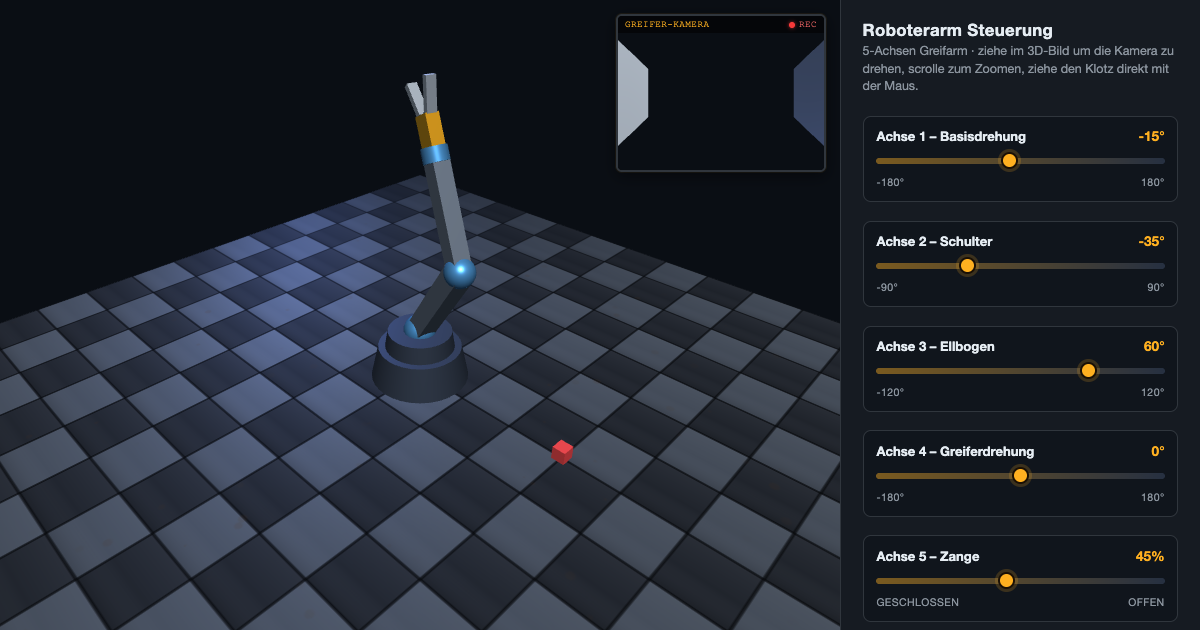
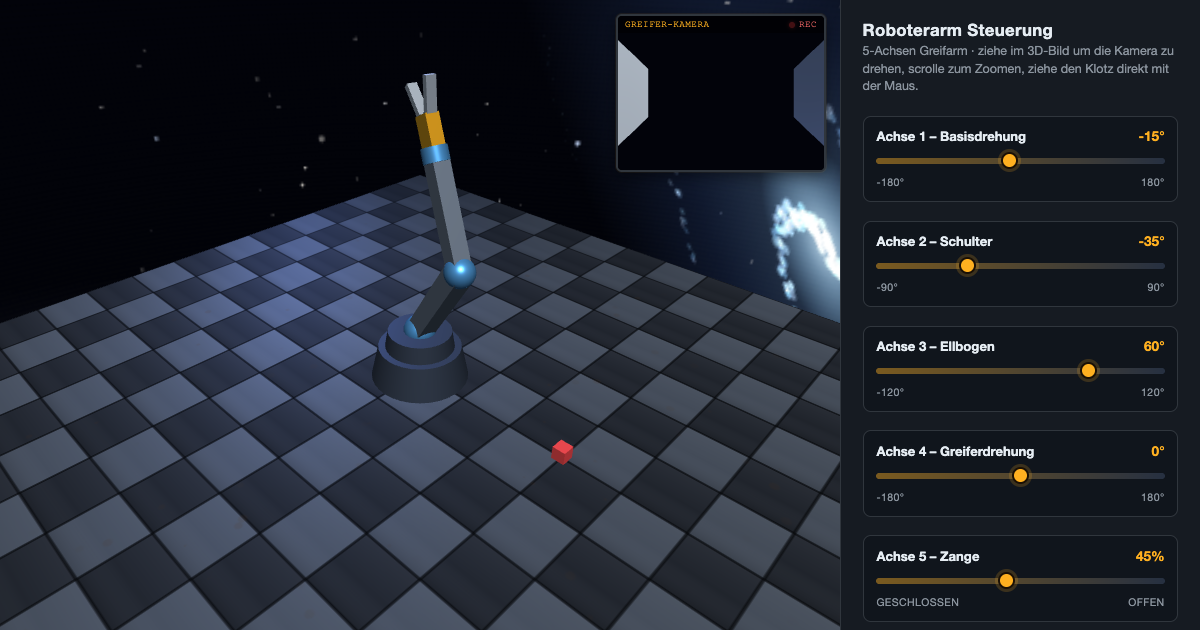
Replace flat background with a procedural starfield and galaxies
Adds a large inverted sphere with a canvas-generated sky texture
(stars, three colored spiral galaxies, a faint Milky Way band),
excluded from scene fog so it stays crisp behind the fogged floor.
Regenerates social-preview.png to match the new look.

Changed region(s): [[0.555, 0.0603, 0.7092, 0.5127], [0.5858, 0.0, 0.6783, 0.0302]]

diff --git a/robot-arm.html b/robot-arm.html
@@ -414,10 +414,117 @@
   renderer.setPixelRatio(Math.min(window.devicePixelRatio || 1, 2));
 
   var scene = new THREE.Scene();
-  scene.background = new THREE.Color(0x0a0e14);
+  scene.background = new THREE.Color(0x02030a);
   scene.fog = new THREE.Fog(0x0a0e14, 12, 26);
 
-  var camera = new THREE.PerspectiveCamera(50, 1, 0.1, 100);
+  // ---------------------------------------------------------------------
+  // Sternenhimmel: große, von innen sichtbare Kugel mit prozeduraler
+  // Sternen-/Galaxientextur. fog:false, damit der Nebel die Szene bodennah
+  // hält, den Himmel dahinter aber nicht zu Matsch verwäscht.
+  // ---------------------------------------------------------------------
+  function createStarfieldTexture(){
+    var w = 2048, h = 1024;
+    var c = document.createElement('canvas');
+    c.width = w; c.height = h;
+    var ctx = c.getContext('2d');
+
+    var bg = ctx.createLinearGradient(0, 0, 0, h);
+    bg.addColorStop(0, '#050611');
+    bg.addColorStop(0.5, '#02030a');
+    bg.addColorStop(1, '#000103');
+    ctx.fillStyle = bg;
+    ctx.fillRect(0, 0, w, h);
+
+    var rng = 987654321;
+    function rand(){ rng = (rng * 16807) % 2147483647; return rng / 2147483647; }
+
+    function drawGalaxy(cx, cy, r, hue, rot){
+      ctx.save();
+      ctx.translate(cx, cy);
+      ctx.rotate(rot);
+      ctx.scale(1, 0.38); // perspektivisch flach wie eine Spiralgalaxie von schräg oben
+
+      // Kern
+      var core = ctx.createRadialGradient(0, 0, 0, 0, 0, r * 0.22);
+      core.addColorStop(0, 'hsla(' + hue + ', 60%, 92%, 0.95)');
+      core.addColorStop(0.4, 'hsla(' + hue + ', 70%, 80%, 0.55)');
+      core.addColorStop(1, 'hsla(' + hue + ', 70%, 70%, 0)');
+      ctx.fillStyle = core;
+      ctx.beginPath(); ctx.arc(0, 0, r * 0.22, 0, Math.PI * 2); ctx.fill();
+
+      // Diffuse Scheibe
+      var disk = ctx.createRadialGradient(0, 0, 0, 0, 0, r);
+      disk.addColorStop(0, 'hsla(' + hue + ', 65%, 75%, 0.35)');
+      disk.addColorStop(0.5, 'hsla(' + (hue + 15) + ', 70%, 60%, 0.16)');
+      disk.addColorStop(1, 'hsla(' + (hue + 15) + ', 70%, 60%, 0)');
+      ctx.fillStyle = disk;
+      ctx.beginPath(); ctx.arc(0, 0, r, 0, Math.PI * 2); ctx.fill();
+
+      // Spiralarme aus feinen Punktwolken
+      ctx.globalCompositeOperation = 'lighter';
+      for (var arm = 0; arm < 2; arm++){
+        var armOffset = arm * Math.PI;
+        for (var i = 0; i < 260; i++){
+          var t = i / 260;
+          var theta = t * Math.PI * 2.4 + armOffset;
+          var radius = t * r;
+          var spread = (rand() - 0.5) * r * 0.16 * (0.3 + t);
+          var x = Math.cos(theta) * radius + Math.cos(theta + Math.PI / 2) * spread;
+          var y = Math.sin(theta) * radius + Math.sin(theta + Math.PI / 2) * spread;
+          var s = (1 - t) * 2.6 + 0.4;
+          ctx.fillStyle = 'hsla(' + (hue + rand() * 20 - 10) + ', 75%, ' + (70 + rand() * 20) + '%, ' + (0.5 - t * 0.35).toFixed(2) + ')';
+          ctx.beginPath(); ctx.arc(x, y, s, 0, Math.PI * 2); ctx.fill();
+        }
+      }
+      ctx.restore();
+    }
+
+    // 3 unterschiedlich große, unterschiedlich gefärbte Galaxien verteilt
+    drawGalaxy(w * 0.22, h * 0.28, 170, 265, 0.6);
+    drawGalaxy(w * 0.78, h * 0.62, 230, 205, -0.9);
+    drawGalaxy(w * 0.55, h * 0.15, 110, 320, 0.2);
+
+    // Schwaches Milchstraßenband quer über den Himmel
+    ctx.save();
+    ctx.globalCompositeOperation = 'lighter';
+    ctx.translate(w * 0.5, h * 0.82);
+    ctx.rotate(-0.12);
+    var band = ctx.createLinearGradient(0, -70, 0, 70);
+    band.addColorStop(0, 'hsla(230, 40%, 70%, 0)');
+    band.addColorStop(0.5, 'hsla(230, 35%, 80%, 0.10)');
+    band.addColorStop(1, 'hsla(230, 40%, 70%, 0)');
+    ctx.fillStyle = band;
+    ctx.fillRect(-w * 0.6, -70, w * 1.2, 140);
+    ctx.restore();
+
+    // Sternenfeld: viele kleine, ein paar größere mit Glanzpunkt
+    for (var i = 0; i < 1400; i++){
+      var x = rand() * w, y = rand() * h;
+      var b = rand();
+      var radius = b > 0.985 ? 1.6 + rand() * 1.2 : (b > 0.9 ? 0.9 + rand() * 0.6 : 0.35 + rand() * 0.4);
+      var alpha = 0.35 + rand() * 0.65;
+      var tint = rand() > 0.8 ? '200, 220, 255' : (rand() > 0.5 ? '255, 250, 240' : '255, 255, 255');
+      ctx.fillStyle = 'rgba(' + tint + ', ' + alpha.toFixed(2) + ')';
+      ctx.beginPath(); ctx.arc(x, y, radius, 0, Math.PI * 2); ctx.fill();
+      if (radius > 1.6){
+        ctx.strokeStyle = 'rgba(' + tint + ', ' + (alpha * 0.3).toFixed(2) + ')';
+        ctx.lineWidth = 0.6;
+        ctx.beginPath(); ctx.moveTo(x - radius * 3, y); ctx.lineTo(x + radius * 3, y); ctx.stroke();
+        ctx.beginPath(); ctx.moveTo(x, y - radius * 3); ctx.lineTo(x, y + radius * 3); ctx.stroke();
+      }
+    }
+
+    return c;
+  }
+
+  var starfieldTexture = new THREE.CanvasTexture(createStarfieldTexture());
+  var starfield = new THREE.Mesh(
+    new THREE.SphereGeometry(500, 48, 32),
+    new THREE.MeshBasicMaterial({ map: starfieldTexture, side: THREE.BackSide, fog: false, depthWrite: false })
+  );
+  scene.add(starfield);
+
+  var camera = new THREE.PerspectiveCamera(50, 1, 0.1, 700);
 
   // Manuelle "Orbit"-Kamera (kein OrbitControls-Import nötig)
   var cam = {
